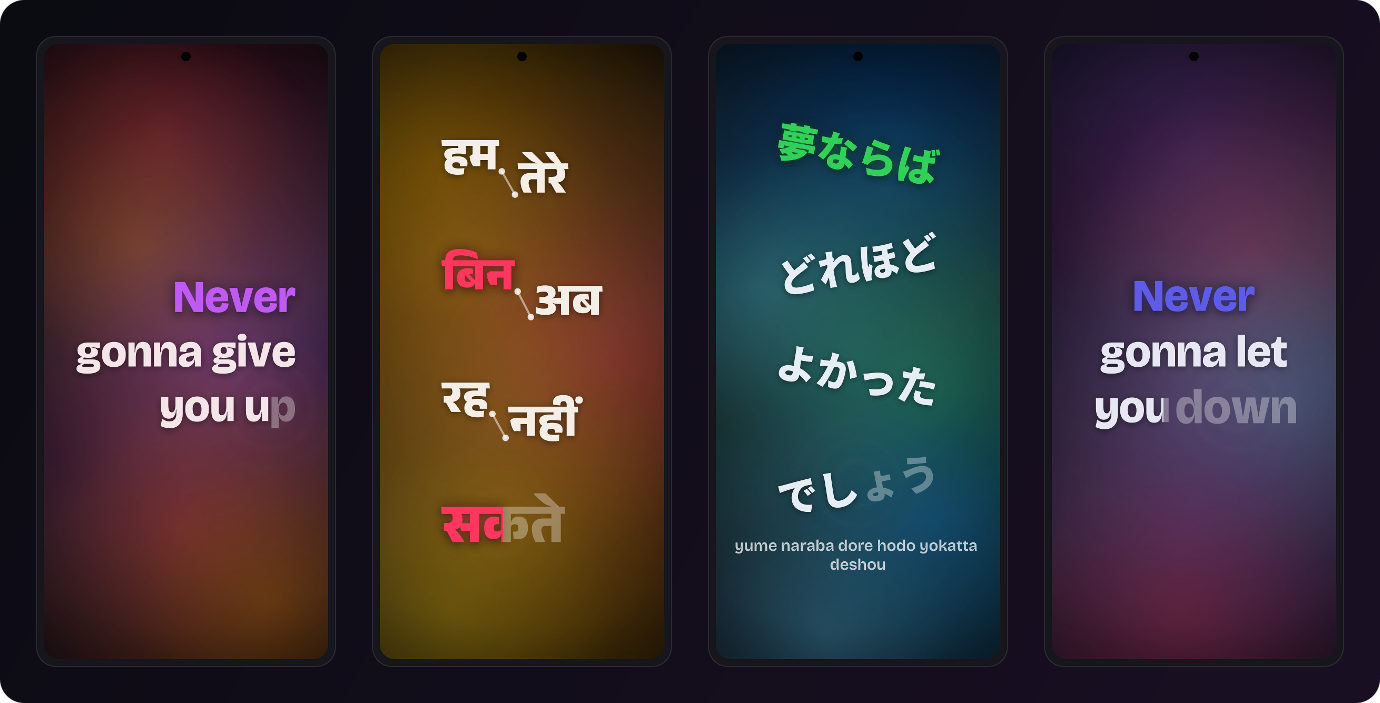
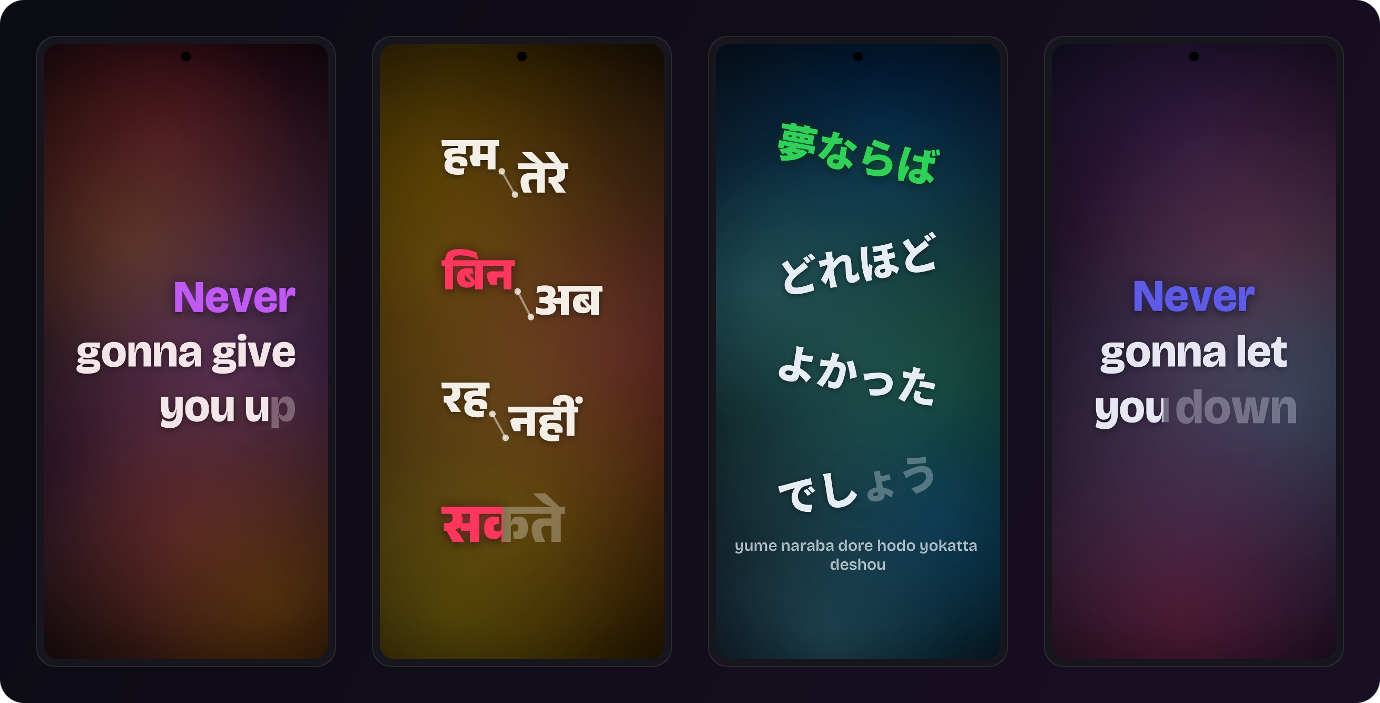
Shade by luminance: lyrics and ripples read on red, green, blue and yellow
HSL lightness puts every pure hue at exactly 50%, so the 1.1.6 rule called
a saturated blue cover 'light' and set black lyrics on night-blue (1.9:1);
red did the same. A cover is now dark or light by WCAG luminance, across
the same 0.35 line the accent chips use - red and blue wear the white-added
shade, green and yellow the black-added one, and the ripples follow.

Each shade is also floored at 3:1 where it is weakest: the white-added one
against the raw artwork, the black-added one against the background as the
liquid glass shader shows it - its filmic tail darkens a light cover into
the mid tones where a light black sank (a green cover read 2.4:1 on the
stage while the artwork promised 8:1).

The README mockups now run their backgrounds through the shader's own tone
map, and docs/screenshots/primaries.png is the proof sheet: pure red,
green, blue and yellow covers, before and after.

diff --git a/tools/screenshots/src/Render.kt b/tools/screenshots/src/Render.kt
@@ -3,6 +3,9 @@ package shots
 import com.lyricstage.core.lyrics.LyricLine
 import com.lyricstage.core.lyrics.LyricsBuilder
 import com.lyricstage.core.palette.Colour
+import com.lyricstage.core.palette.PaletteBuilder
+import com.lyricstage.core.palette.StagePalette
+import com.lyricstage.core.palette.Swatch
 import com.lyricstage.core.stage.ENTRY_LEAD_MS
 import com.lyricstage.core.stage.Highlights
 import com.lyricstage.core.stage.LineTiming
@@ -165,6 +168,49 @@ fun textTint(p: Pal): Color {
     return hex(Colour.fromHsl(h, (sat * 0.45f).coerceAtMost(0.4f), 0.93f))
 }
 
+/**
+ * The palette as 1.1.6 built it - dark by HSL lightness, no contrast floor - kept only so
+ * the comparison sheet can show what that rule did to red and blue covers.
+ */
+fun oldBuild(swatches: List<Swatch>): StagePalette {
+    val ranked = swatches.sortedWith(
+        compareByDescending<Swatch> { it.population }
+            .thenByDescending { Colour.toHsl(it.rgb)[1] }
+            .thenByDescending { Colour.toHsl(it.rgb)[2] }
+            .thenBy { Colour.toHsl(it.rgb)[0] },
+    )
+    val top = ranked[0]
+    val (bh, bs, bl) = Colour.toHsl(top.rgb)
+    val dark = bl < 0.5f
+    val dir = if (dark) 1f else -1f
+    fun ripple(src: Swatch?, gap: Float): FloatArray {
+        val (h, s, l) = src?.let { Colour.toHsl(it.rgb) } ?: floatArrayOf(bh, bs, bl)
+        var nl = l
+        if (kotlin.math.abs(nl - bl) < gap) nl = bl + dir * gap
+        return floatArrayOf(h, (s * 1.08f + 0.08f).coerceAtMost(1f), nl.coerceIn(0.04f, 0.96f))
+    }
+    val r1 = ripple(ranked.getOrNull(1), 0.26f)
+    val r2 = ripple(ranked.getOrNull(2), 0.26f * 0.7f)
+    if (kotlin.math.abs(r2[2] - r1[2]) < 0.08f) r2[2] = (r1[2] + dir * 0.08f).coerceIn(0.04f, 0.96f)
+    val accentSrc = ranked.maxWithOrNull(compareBy { Colour.toHsl(it.rgb)[1] }) ?: top
+    val (ah, srcSat, _) = Colour.toHsl(accentSrc.rgb)
+    val ts = (srcSat * 0.5f).coerceAtMost(0.32f)
+    val text = Colour.fromHsl(ah, ts, if (dark) 0.88f else 0.18f)
+    val glint = Colour.fromHsl(ah, ts, if (dark) 0.96f else 0.04f)
+    return StagePalette(top.rgb, listOf(Colour.fromHsl(r1[0], r1[1], r1[2]), Colour.fromHsl(r2[0], r2[1], r2[2]), glint), text)
+}
+
+/** The shader's filmic tail (Colour.rolled) applied to a whole image, so mockups show
+ *  the lightness the app draws. */
+fun toneMap(img: BufferedImage): BufferedImage {
+    val w = img.width
+    val h = img.height
+    val px = img.getRGB(0, 0, w, h, null, 0, w)
+    for (i in px.indices) px[i] = Colour.rolled(px[i])
+    img.setRGB(0, 0, w, h, px, 0, w)
+    return img
+}
+
 /** Approximation of the AGSL liquid glass: soft pools of accent light, a glass sheen, vignette, grain. */
 fun background(w: Int, h: Int, pal: Pal, seed: Int, ripple: Point2D.Float?): BufferedImage {
     val img = BufferedImage(w, h, BufferedImage.TYPE_INT_ARGB)
@@ -200,9 +246,8 @@ fun background(w: Int, h: Int, pal: Pal, seed: Int, ripple: Point2D.Float?): Buf
     val soft = blur(img, (w * 0.01f).toInt())
     val g2 = soft.createGraphics()
     g2.hq()
-    // keep the brightest spots well under the white type, then vignette
-    g2.color = Color(0, 0, 0, 70)
-    g2.fillRect(0, 0, w, h)
+    // vignette as the shader does, then its filmic tail, so the mockup shows the
+    // lightness the app really draws: the brightest background stays well under the type
     g2.paint = RadialGradientPaint(
         Point2D.Float(w / 2f, h / 2f), max(w, h) * 0.75f, floatArrayOf(0f, 0.6f, 1f),
         arrayOf(Color(0, 0, 0, 0), Color(0, 0, 0, 60), Color(0, 0, 0, 170)),
@@ -210,6 +255,7 @@ fun background(w: Int, h: Int, pal: Pal, seed: Int, ripple: Point2D.Float?): Buf
     )
     g2.fillRect(0, 0, w, h)
     g2.dispose()
+    toneMap(soft)
     val rnd = Random(seed + 7)
     for (y in 0 until h step 1) for (x in 0 until w step 2) {
         if (rnd.nextFloat() < 0.15f) {
@@ -236,6 +282,8 @@ class Shot(
     val playSeed: Int,
     /** How far through that word's sung time the frame is. */
     val fill: Float = 0.5f,
+    /** The lyrics colour; a real PaletteBuilder output when set, else the mockup tint. */
+    val text: Color? = null,
 )
 
 const val W = 1080
@@ -262,6 +310,8 @@ fun renderStage(s: Shot, dim: Float = 1f): BufferedImage {
     val pos = word.startMs + (word.durationMs * s.fill).toLong()
     val highlights = Highlights.pick(line, s.playSeed)
     val accent = s.pal.accents[Highlights.accentIndex(line, s.playSeed)]
+    val bodyText = s.text ?: textTint(s.pal)
+    val subColour = Color(bodyText.red, bodyText.green, bodyText.blue, 185)
 
     val rippleAt = layout.words.firstOrNull { it.index == k }?.let { Point2D.Float(it.x + it.width / 2, it.y + it.height / 2) }
     val img = background(W, H, s.pal, s.seed, rippleAt)
@@ -290,11 +340,11 @@ fun renderStage(s: Shot, dim: Float = 1f): BufferedImage {
         if (reveal <= 0f) continue
         val sw = max(3f, (layout.words.firstOrNull()?.fontPx ?: 40f) * 0.045f)
         gt.stroke = BasicStroke(sw, BasicStroke.CAP_ROUND, BasicStroke.JOIN_ROUND)
-        gt.color = Color(255, 255, 255, 128)
+        gt.color = Color(bodyText.red, bodyText.green, bodyText.blue, 128)
         val x1 = seg.x0 + (seg.x1 - seg.x0) * reveal
         val y1 = seg.y0 + (seg.y1 - seg.y0) * reveal
         gt.draw(Line2D.Float(seg.x0, seg.y0, x1, y1))
-        gt.color = Color(255, 255, 255, 210)
+        gt.color = Color(bodyText.red, bodyText.green, bodyText.blue, 210)
         val d = sw * 1.6f
         gt.fill(Ellipse2D.Float(seg.x0 - d, seg.y0 - d, d * 2, d * 2))
         if (reveal >= 1f) gt.fill(Ellipse2D.Float(x1 - d, y1 - d, d * 2, d * 2))
@@ -312,7 +362,7 @@ fun renderStage(s: Shot, dim: Float = 1f): BufferedImage {
         val colour = when {
             w.backing -> Color(255, 255, 255, 160)
             hl -> hex(accent)
-            else -> textTint(s.pal)
+            else -> bodyText
         }
         val font = stageFont(line.script, p.fontPx)
         val at = AffineTransform()
@@ -367,7 +417,7 @@ fun renderStage(s: Shot, dim: Float = 1f): BufferedImage {
             if (hl) drawPieces(gg, colour, alpha * 0.9f, null)
             drawPieces(gt, colour, alpha, null)
         } else {
-            drawPieces(gt, Color.WHITE, alpha * 0.32f, null)
+            drawPieces(gt, bodyText, alpha * 0.32f, null)
             if (!upcoming && fill > 0f) {
                 drawPieces(gs, Color(0, 0, 0, 115), alpha, p.width * fill)
                 if (hl) drawPieces(gg, colour, alpha * 0.9f, p.width * fill)
@@ -385,7 +435,7 @@ fun renderStage(s: Shot, dim: Float = 1f): BufferedImage {
         val str = java.text.AttributedString(sub).apply { addAttribute(java.awt.font.TextAttribute.FONT, f) }
         val lbm = java.awt.font.LineBreakMeasurer(str.iterator, FRC)
         var ty = area.top
-        gt.color = Color(255, 255, 255, 185)
+        gt.color = subColour
         var lines = 0
         while (lbm.position < sub.length && lines < 2) {
             val tl = lbm.nextLayout(area.width)
@@ -773,4 +823,57 @@ fun main() {
     }
     g.dispose()
     save(band, "hero.png")
+
+    // the primaries sheet: pure red, green, blue and yellow covers - the four colours that
+    // all sit at HSL lightness 0.5, where the 1.1.6 rule called every one of them "light".
+    // Top row: the 1.1.6 rule. Bottom row: the luminance rule. Both are the real builder
+    // code, the same line and template - only the shade decision differs. The contrast in
+    // each label is measured against the background as the shader's tone map leaves it.
+    val covers = listOf(
+        "Red" to listOf(Swatch(0xFFFF0000.toInt(), 900), Swatch(0xFFB00000.toInt(), 250), Swatch(0xFFFF7070.toInt(), 150)),
+        "Green" to listOf(Swatch(0xFF00FF00.toInt(), 900), Swatch(0xFF00B000.toInt(), 250), Swatch(0xFF70FF70.toInt(), 150)),
+        "Blue" to listOf(Swatch(0xFF0000FF.toInt(), 900), Swatch(0xFF0000B0.toInt(), 250), Swatch(0xFF7070FF.toInt(), 150)),
+        "Yellow" to listOf(Swatch(0xFFFFFF00.toInt(), 900), Swatch(0xFFB0B000.toInt(), 250), Swatch(0xFFFFFF70.toInt(), 150)),
+    )
+    fun row(caption: String, build: (List<Swatch>) -> StagePalette): BufferedImage {
+        val pw = 300
+        val ph = 631
+        val gap = 36
+        val width = gap * 2 + pw * 4 + gap * 3
+        val img = BufferedImage(width, 56 + ph + 104, BufferedImage.TYPE_INT_ARGB)
+        val g = img.createGraphics()
+        g.hq()
+        g.color = UI_MUTED
+        g.font = fSemi.deriveFont(26f)
+        g.drawString(caption, gap + 2f, 40f)
+        var x = gap
+        for ((name, sw) in covers) {
+            val p = build(sw)
+            val shot = Shot(name, "rickroll", "Never gonna", TemplateId.STACK, Pal(p.base, p.accents), 0.85f, 11, 4, text = hex(p.text))
+            g.drawImage(scale(phone(renderStage(shot)), pw), x, 56, null)
+            val shade = if (Colour.toHsl(p.text)[2] > 0.5f) "white lyrics" else "black lyrics"
+            val ratio = "%.1f".format(Colour.contrast(Colour.rolled(p.base), p.text))
+            g.color = UI_TEXT
+            g.font = fSemi.deriveFont(30f)
+            g.centred(name, x + pw / 2f, 56 + ph + 46f)
+            g.color = UI_MUTED
+            g.font = fRegular.deriveFont(24f)
+            g.centred("$shade $ratio:1", x + pw / 2f, 56 + ph + 82f)
+            x += pw + gap
+        }
+        g.dispose()
+        return img
+    }
+    val before = row("BEFORE  ·  1.1.6  ·  HSL LIGHTNESS PICKS THE SHADE") { oldBuild(it) }
+    val after = row("AFTER  ·  LUMINANCE PICKS THE SHADE") { PaletteBuilder.build(it, 3) }
+    val bandGap = 40
+    val sheet = BufferedImage(before.width, before.height + after.height + bandGap, BufferedImage.TYPE_INT_ARGB)
+    val sg = sheet.createGraphics()
+    sg.hq()
+    sg.paint = GradientPaint(0f, 0f, Color(0x0b, 0x0b, 0x12), sheet.width.toFloat(), sheet.height.toFloat(), Color(0x1a, 0x10, 0x24))
+    sg.fill(RoundRectangle2D.Float(0f, 0f, sheet.width.toFloat(), sheet.height.toFloat(), 48f, 48f))
+    sg.drawImage(before, 0, 0, null)
+    sg.drawImage(after, 0, before.height + bandGap, null)
+    sg.dispose()
+    save(sheet, "primaries.png")
 }

diff --git a/core/src/main/kotlin/com/lyricstage/core/palette/StagePalette.kt b/core/src/main/kotlin/com/lyricstage/core/palette/StagePalette.kt
@@ -44,6 +44,12 @@ data class Swatch(val rgb: Int, val population: Int)
  * background as-is, the next two become the ripples, pushed in lightness until they clear
  * the background. Nothing is averaged into a new colour and no branch treats black
  * differently, so the same artwork always yields exactly the same palette.
+ *
+ * A cover is dark or light by the light the eye sees — WCAG luminance — never by HSL
+ * lightness, which puts every pure hue at exactly 50 %: a saturated blue cover is "light"
+ * to HSL and night to the eye, and black lyrics on it would vanish. Red and blue fall
+ * below the line and wear the white-added shade; green and yellow fall above it and wear
+ * the black-added one.
  */
 object PaletteBuilder {
     /** Minimum lightness gap between the background and a ripple colour. */
@@ -60,6 +66,21 @@ object PaletteBuilder {
 
     /** Lyrics on light backgrounds: a black-added shade. */
     const val TEXT_LIGHT_L = 0.18f
+
+    /**
+     * WCAG relative luminance at which a cover starts counting as light — the same line
+     * the app's accent chips use to decide they are light enough for dark text. HSL
+     * lightness cannot be used: it calls a saturated blue cover "light" (its maths puts
+     * every pure hue at 50 %) and that cover is night to the eye.
+     */
+    const val LIGHT_LUMINANCE = 0.35
+
+    /** The lyric shade is floored at this contrast against its background - the
+     * large-type bar. The white-added shade is measured against the artwork itself (solid
+     * and artwork backgrounds draw it raw), the black-added shade against the background
+     * as the liquid glass shader shows it, whose filmic tail darkens a light cover into
+     * the mid tones where a light black would sink. */
+    const val TEXT_MIN_CONTRAST = 3.0
 
     /** Highest saturation the lyrics shade may carry: a tint, not a pure colour. */
     const val TEXT_SAT_MAX = 0.32f
@@ -80,7 +101,10 @@ object PaletteBuilder {
         )
         val top = ranked[0]
         val (bh, bs, bl) = Colour.toHsl(top.rgb)
-        val dark = bl < 0.5f
+        // dark by the light the eye sees, not by HSL lightness: pure hues all sit at HSL
+        // 50 %, and a saturated blue or red cover is night to the eye while green and
+        // yellow are light. The line is the one the app's accent chips already use.
+        val dark = Colour.luminance(top.rgb) < LIGHT_LUMINANCE
         val dir = if (dark) 1f else -1f
 
         fun ripple(src: Swatch?, gap: Float): FloatArray {
@@ -101,12 +125,20 @@ object PaletteBuilder {
 
         // lyrics: hue from the most saturated colour in the artwork, saturation carried at
         // half and capped; lightness on the far side of the background, whites added on
-        // dark covers, blacks added on light ones
+        // dark covers, blacks added on light ones. Each shade is then floored where it is
+        // weakest: the white-added one against the raw artwork (a red cover), the
+        // black-added one against the background as the shader shows it (a green cover
+        // is drawn in the mid tones, and a light black would sink into it)
         val accentSrc = ranked.maxWithOrNull(compareBy { Colour.toHsl(it.rgb)[1] }) ?: top
         val (ah, srcSat, _) = Colour.toHsl(accentSrc.rgb)
         val ts = (srcSat * 0.5f).coerceAtMost(TEXT_SAT_MAX)
         val tl = if (dark) TEXT_DARK_L else TEXT_LIGHT_L
-        val text = Colour.fromHsl(ah, ts, tl)
+        var text = Colour.fromHsl(ah, ts, tl)
+        text = if (dark) {
+            Colour.lightenForContrast(text, top.rgb, TEXT_MIN_CONTRAST)
+        } else {
+            Colour.deepenForContrast(text, Colour.rolled(top.rgb), TEXT_MIN_CONTRAST)
+        }
         // the third accent, for highlighted words and the brightest pool: the lyrics' own
         // shade one lightness step beyond, near white on dark covers, near black on light ones
         val glint = Colour.fromHsl(ah, ts, if (dark) L_MAX else L_MIN)

diff --git a/core/src/test/kotlin/com/lyricstage/core/StageTest.kt b/core/src/test/kotlin/com/lyricstage/core/StageTest.kt
@@ -129,6 +129,45 @@ class StageTest {
         assertTrue(Colour.hueDistance(r2h, ch) < 0.1f || Colour.hueDistance(r2h, Colour.toHsl(black)[0]) < 0.1f)
     }
 
+    @Test fun palettePrimariesWearTheShadeThatReads() {
+        // pure red, green, blue and yellow covers all sit at HSL lightness 0.5, so the old
+        // HSL test called all four "light" and set black lyrics on blue (1.9:1). Dark is
+        // now decided by the light the eye sees: red and blue wear the white-added shade,
+        // green and yellow the black-added one, and every shade clears the large-type bar
+        fun primary(base: Int, darker: Int, lighter: Int) =
+            PaletteBuilder.build(listOf(Swatch(base, 900), Swatch(darker, 250), Swatch(lighter, 150)), 3)
+        val red = primary(0xFFFF0000.toInt(), 0xFFB00000.toInt(), 0xFFFF7070.toInt())
+        val green = primary(0xFF00FF00.toInt(), 0xFF00B000.toInt(), 0xFF70FF70.toInt())
+        val blue = primary(0xFF0000FF.toInt(), 0xFF0000B0.toInt(), 0xFF7070FF.toInt())
+        val yellow = primary(0xFFFFFF00.toInt(), 0xFFB0B000.toInt(), 0xFFFFFF70.toInt())
+
+        listOf("red" to red, "blue" to blue).forEach { (name, p) ->
+            assertTrue("$name is dark to the eye: white is added to the lyrics", Colour.toHsl(p.text)[2] >= PaletteBuilder.TEXT_DARK_L - 0.11f)
+            assertTrue("$name lyrics clear the large-type bar (${Colour.contrast(p.base, p.text)})",
+                Colour.contrast(p.base, p.text) >= PaletteBuilder.TEXT_MIN_CONTRAST)
+        }
+        listOf("green" to green, "yellow" to yellow).forEach { (name, p) ->
+            assertTrue("$name is light to the eye: black is added to the lyrics", Colour.toHsl(p.text)[2] <= 0.3f)
+            assertTrue("$name lyrics clear the large-type bar (${Colour.contrast(p.base, p.text)})",
+                Colour.contrast(p.base, p.text) >= PaletteBuilder.TEXT_MIN_CONTRAST)
+        }
+        // and every shade still clears the bar against the background as the liquid glass
+        // shader shows it: its filmic tail darkens a light cover into the mid tones
+        listOf("red" to red, "green" to green, "blue" to blue, "yellow" to yellow).forEach { (name, p) ->
+            val shown = Colour.contrast(Colour.rolled(p.base), p.text)
+            assertTrue("$name lyrics clear the bar on the stage as drawn ($shown)", shown >= PaletteBuilder.TEXT_MIN_CONTRAST - 0.01)
+        }
+        // ripples follow the same direction, so they stand off the background on every hue
+        // (the second ripple is held to its own smaller gap)
+        val gaps = listOf(PaletteBuilder.RIPPLE_GAP, PaletteBuilder.RIPPLE_GAP * 0.7f)
+        listOf(red, green, blue, yellow).forEach { p ->
+            val bl = Colour.toHsl(p.base)[2]
+            p.accents.take(2).forEachIndexed { i, acc ->
+                assertTrue("ripple clears the background", kotlin.math.abs(Colour.toHsl(acc)[2] - bl) >= gaps[i] - 0.02f)
+            }
+        }
+    }
+
     @Test fun paletteStaysWithTheCover() {
         // one blue hue: every accent stays blue-ish, none is a made-up colour
         val blue = PaletteBuilder.build(listOf(Swatch(0xFF2050D0.toInt(), 800), Swatch(0xFF101828.toInt(), 900)), 4)

diff --git a/core/src/main/kotlin/com/lyricstage/core/palette/Colour.kt b/core/src/main/kotlin/com/lyricstage/core/palette/Colour.kt
@@ -50,6 +50,17 @@ object Colour {
         return 0.2126 * ch(red(c)) + 0.7152 * ch(green(c)) + 0.0722 * ch(blue(c))
     }
 
+    /**
+     * A colour as the liquid glass background shows it: the shader ends in a filmic
+     * roll-off that no background escapes, so a light cover is drawn well darker than its
+     * artwork. A shade that must read on the stage has to clear its bar against this,
+     * not against the raw artwork.
+     */
+    fun rolled(c: Int): Int {
+        fun t(v: Int): Int = ((v / 255f / (1f + 0.7f * (v / 255f))).pow(1.18f) * 0.95f * 255f).toInt().coerceIn(0, 255)
+        return argb(alpha(c), t(red(c)), t(green(c)), t(blue(c)))
+    }
+
     fun contrast(a: Int, b: Int): Double {
         val la = luminance(a)
         val lb = luminance(b)
@@ -82,5 +93,18 @@ object Colour {
             if (contrast(fromHsl(h, s, mid), bg) >= minRatio) hi = mid else lo = mid
         }
         return fromHsl(h, s, hi)
+    }
+
+    /** Lower [fg]'s HSL lightness (keeping hue) until it reaches [minRatio] against [bg]. */
+    fun deepenForContrast(fg: Int, bg: Int, minRatio: Double): Int {
+        if (contrast(fg, bg) >= minRatio) return fg
+        val (h, s, l) = toHsl(fg)
+        var lo = 0f
+        var hi = l
+        repeat(14) {
+            val mid = (lo + hi) / 2
+            if (contrast(fromHsl(h, s, mid), bg) >= minRatio) lo = mid else hi = mid
+        }
+        return fromHsl(h, s, lo)
     }
 }

diff --git a/README.md b/README.md
@@ -14,7 +14,7 @@ LyricStage shows word-synced lyrics for whatever is playing on your Android phon
 - Lyrics come from [LRCLIB](https://lrclib.net), NetEase Cloud Music, Musixmatch and Kugou, asked at the same time. Word-by-word timings win when any source has them (Musixmatch first, then NetEase, then Kugou), and are checked against LRCLIB's line timings so they match the playing release. Lyrics are cached on the phone and fetched in the background as songs change, along with the next two songs in the player's queue.
 - Without word timings, the app estimates them from syllables (aksharas for every Indic script), holding line endings longer. An optional audio sync setting nudges those estimates towards the vocal onsets it hears in the playing audio.
 - Shows a romanised line under Japanese, Hindi or Bengali lyrics when the lyrics file includes one.
-- The colours come from the album art: the background is its top colour exactly as it comes, near-black covers included; the ripples are the next top colours, pushed apart in lightness until they stand off; the lyrics are a white- or black-tinted shade of the cover's most saturated colour, carried by the shadow under them. On Android 13 and later the background is a moving "liquid glass" shader in those colours, with a ripple from each sung word, and on the beat (or at a gentle pace) when nothing is being sung. Older phones get an animated gradient. Artwork blur and a plain colour are also available. Colours are fixed per album, so songs from one album share them.
+- The colours come from the album art: the background is its top colour exactly as it comes, near-black covers included; the ripples are the next top colours, pushed apart in lightness until they stand off; the lyrics are a white- or black-tinted shade of the cover's most saturated colour - white or black by the light the eye sees (a saturated blue cover is night, a yellow one is noon, whatever HSL lightness says), and never below 3:1 against the stage - carried by the shadow under them. On Android 13 and later the background is a moving "liquid glass" shader in those colours, with a ripple from each sung word, and on the beat (or at a gentle pace) when nothing is being sung. Older phones get an animated gradient. Artwork blur and a plain colour are also available. Colours are fixed per album, so songs from one album share them.
 - Sliders for how bright the colour pools are and how strong the ripples are, with a live preview in Settings. Glass lyrics turns the sung words into clear or frosted glass over the background.
 - Fonts chosen separately for the lyrics and the app. Lyrics default to Unbounded, the app to Instrument Sans. Lyrics in the nine Indic scripts are set in Anek automatically, detected from the text.
 - Every line is fitted to the screen before it is shown, so words are never cut off, in portrait or landscape.
@@ -39,7 +39,7 @@ LyricStage shows word-synced lyrics for whatever is playing on your Android phon
 
 Tap the stage to show the controls for three seconds: the song and the layout pills at the top, and the seek bar, play and pause and skip in a card at the bottom. The lyrics fade back while the controls are open. The buttons and switches take their colour from the album art.
 
-The images above are drawn by the app's own layout engine (`core`) with the bundled fonts. The background is an approximation of the shader. The lyric lines are short excerpts quoted to show the layouts: Rick Astley, "Never Gonna Give You Up"; Arijit Singh, "Tum Hi Ho"; Kenshi Yonezu, "Lemon"; Rabindranath Tagore, "Ekla Chalo Re"; Eminem, "Lose Yourself". `tools/screenshots/render.sh` regenerates them.
+The images above are drawn by the app's own layout engine (`core`) with the bundled fonts. The background is an approximation of the shader, run through the shader's own tone map. The lyric lines are short excerpts quoted to show the layouts: Rick Astley, "Never Gonna Give You Up"; Arijit Singh, "Tum Hi Ho"; Kenshi Yonezu, "Lemon"; Rabindranath Tagore, "Ekla Chalo Re"; Eminem, "Lose Yourself". `tools/screenshots/render.sh` regenerates them. The colour rules are proved on the four colours every shade rule disagrees about - pure red, green, blue and yellow - in [`docs/screenshots/primaries.png`](docs/screenshots/primaries.png).
 
 ## Install
 

diff --git a/CHANGELOG.md b/CHANGELOG.md
@@ -2,6 +2,24 @@
 
 ## [Unreleased]
 
+### Fixed
+- Lyrics, ripples and the highlight glint now take their shade by the light the eye sees,
+  not by HSL lightness. HSL puts every pure hue at exactly 50 % lightness, so a saturated
+  blue or violet cover counted as "light" and wore black lyrics on night-blue (1.9:1); a
+  red cover did the same. A cover is now dark or light by WCAG luminance, across the same
+  0.35 line the app's accent chips use: red and blue wear the white-added shade, green and
+  yellow the black-added one, and the ripples follow, so they stand off on every hue.
+- The lyric shade is floored at 3:1 - the large-type bar - where each shade is weakest:
+  the white-added shade against the artwork itself (solid and artwork backgrounds draw it
+  raw; on a red cover it was 2.9:1), the black-added shade against the background as the
+  liquid glass shader shows it. The shader's filmic tail darkens a light cover into the
+  mid tones, so a green or a pale cover showed black lyrics at 2.4:1 on the stage even
+  though the artwork promised 8:1; they now clear the bar on the stage as drawn.
+- The README mockups run their backgrounds through the shader's own tone map, so what
+  they show is the lightness the app draws. `docs/screenshots/primaries.png` is the proof
+  sheet: pure red, green, blue and yellow covers - the four colours that all sit at HSL
+  lightness 0.5 - before and after.
+
 ## [1.1.6] - 2026-11-06
 
 ### Fixed
